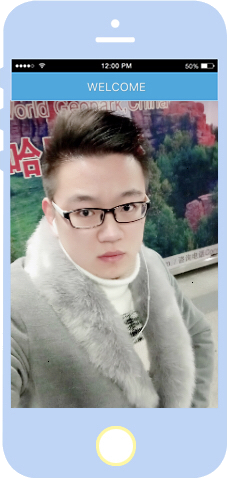
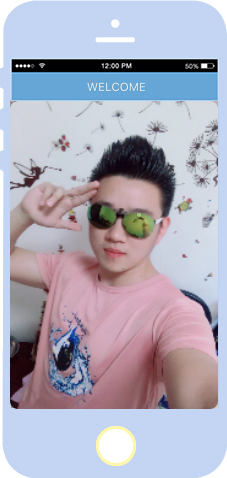
图片替换

diff --git a/index.html b/index.html
@@ -8,7 +8,7 @@
     <link rel="stylesheet" href="styles/index.css">
     <link rel="stylesheet" href="styles/animate.css">
     <link rel="stylesheet" href="styles/tab.css">
-    <link rel="shortcut icon" href="head.ico">
+    <link rel="shortcut icon" href="head2.ico">
     <script src="scripts/jquery-3.2.1.min.js"></script>
     <script src="scripts/index.js"></script>
     <script src="scripts/tab.js"></script>
@@ -17,7 +17,7 @@
 <div id="wrap" class="wrap">
     <header>
         <div class="head_cont">
-            <a href="" id="toLover" target="_self">
+            <a href="http://www.91lik.win/lik-fullcalendar/" id="" target="_self">
                 <div class="head"><img src="images/head.jpg" alt=""></div>
             </a>
             <h1>Lik's World</h1>
